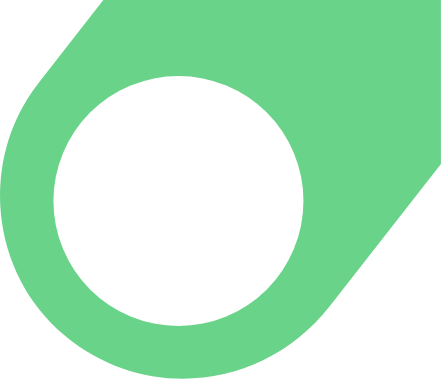
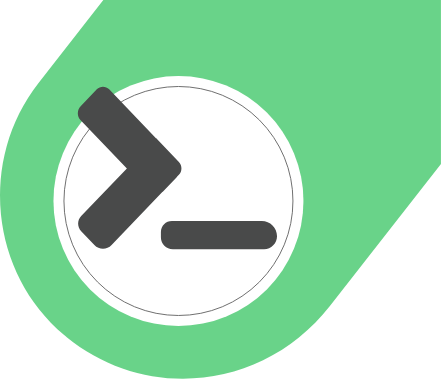
svg

diff --git a/index.html b/index.html
@@ -50,7 +50,25 @@
                     <a href="#hire-me" class="animated-button section-link">Hire me</a>
                 </div>
             </div>
-            <div class="potrait-image"></div>
+            <div class="potrait-image">
+                <svg xmlns="http://www.w3.org/2000/svg" width="440.952" height="378.68" viewBox="0 0 440.952 378.68">
+                    <g id="Group_31" data-name="Group 31" transform="translate(706.452 -579)">
+                      <g id="Group_7" data-name="Group 7">
+                        <path id="Subtraction_9" data-name="Subtraction 9" d="M182.924,582.68h-.012A182.325,182.325,0,0,1,122.477,572.4a186.333,186.333,0,0,1-55.731-31.2c-.913-.738-1.773-1.448-2.63-2.168a177.449,177.449,0,0,1-43.767-54.86,182.943,182.943,0,0,1-12.8-32.008A186.051,186.051,0,0,1,6.744,350,181.035,181.035,0,0,1,38.549,286.9L103.322,204h337.63V367.933L329.891,510.08a193.254,193.254,0,0,1-30.974,31.5A186.86,186.86,0,0,1,263.048,564.3a184.16,184.16,0,0,1-80.124,18.38Z" transform="translate(-706.452 375)" fill="#4dcb73" opacity="0.84"/>
+                        <circle id="Ellipse_3278" data-name="Ellipse 3278" cx="125" cy="125" r="125" transform="translate(-653 655)" fill="#fff"/>
+                        <g id="Ellipse_3295" data-name="Ellipse 3295" transform="translate(-643 665)" fill="#fff" stroke="#707070" stroke-width="1">
+                          <circle cx="115" cy="115" r="115" stroke="none"/>
+                          <circle cx="115" cy="115" r="114.5" fill="none"/>
+                        </g>
+                      </g>
+                      <g id="cursor_angle_blink" data-name="Group 30">
+                        <path id="Path_13" data-name="Path 13" d="M12.027-.155,31.076.24A11.037,11.037,0,0,1,41.79,10.954l2.241,108.073-33.044-.685a9.4,9.4,0,0,1-9.127-9.127L-.155,12.027A11.835,11.835,0,0,1,12.027-.155Z" transform="translate(-603.467 832.367) rotate(-135)" fill="#494a4a"/>
+                        <path id="Path_14" data-name="Path 14" d="M16.217.878,35.266.483A9.986,9.986,0,0,1,45.544,10.762L43.5,109.116a10.22,10.22,0,0,1-9.92,9.92l-23.325.484A8.507,8.507,0,0,1,1.5,110.764L3.519,13.576A13.081,13.081,0,0,1,16.217.878Z" transform="translate(-517.891 745.624) rotate(135)" fill="#494a4a"/>
+                      </g>
+                      <path id="blink" data-name="Rectangle 15" d="M15.281,0h0A12.893,12.893,0,0,1,28.174,12.893v91.279A11.938,11.938,0,0,1,16.236,116.11H10.983A10.983,10.983,0,0,1,0,105.127V15.281A15.281,15.281,0,0,1,15.281,0Z" transform="translate(-429.435 800.009) rotate(90)" fill="#494a4a"/>
+                    </g>
+                  </svg>
+            </div>
         </section>
 
         <!-- PROJECTS SECTION --->
@@ -110,7 +128,7 @@
                     
                     <!-- PLATFORMS -->
                     <div class="hire-me-platforms">
-                <h2>Consider hiring me on any of these platforms</h2>
+                <h3>Consider hiring me on any of these platforms</h3>
 
                         <div class="platform">
                             <!--
@@ -154,22 +172,26 @@
 
                     <!--CONTACT FORM-->
                         <div class="contact-form">
-                            <h2>Or shoot a message my way</h2>
+                            <h3>Or shoot a message my way</h3>
                             <form method="POST" data-netlify="true" id="my-form">
                                 <div class="form-control">
+                                    <div class="success-message">message</div>
+                                </div>
+                                <div class="form-control">
                                     <label for="name"><small>Name</small></label>
-                                    <input type="text" placeholder="Enter name">
+                                    <input type="text" name="name" required placeholder="Enter name">
                                 </div>
                                 <div class="form-control">
-                                    <label for="name"><small>Email</small></label>
-                                    <input type="text" placeholder="Enter email">
+                                    <label for="email"><small>Email</small></label>
+                                    <input type="text" required name="email" placeholder="Enter email">
                                 </div>
                                 <div class="form-control">
-                                    <textarea name="" id="" cols="30" rows="10"></textarea>
+                                    <textarea name="message" placeholder="Enter message" required id="" cols="30" rows="10"></textarea>
                                 </div>
                                 <div class="form-control">
                                     <input type="submit" value="Submit">
                                 </div>
+                                <div class="form-control" data-netlify-recaptcha="true"></div>
                             </form>
                         </div>
                     <!-- /CONTACT FORM -->

diff --git a/style.css b/style.css
@@ -1,10 +1,12 @@
 @import url('https://fonts.googleapis.com/css2?family=Heebo&display=swap');
 @import url('https://fonts.googleapis.com/css2?family=Roboto:wght@300&display=swap');
+@import url('https://fonts.googleapis.com/css2?family=Source+Sans+Pro&display=swap');
 * {
     margin: 0;
     padding: 0;
     /* font-family: 'Roboto', sans-serif; */
-    font-family: 'Segoe UI', Tahoma, Geneva, Verdana, sans-serif;
+    /* font-family: 'Segoe UI', Tahoma, Geneva, Verdana, sans-serif; */
+    font-family: 'Source Sans Pro', sans-serif;
 }
 
 body {
@@ -182,6 +184,10 @@ section {
 
 #hero-section > div {
     flex: 1;
+    
+}
+
+#hero-section > div:nth-of-type(1) {
     display: flex;
     flex-direction: column;
     justify-content: center;
@@ -201,11 +207,68 @@ section {
 }
 
 .potrait-image {
-    background-color: #fff;
-    background-image: url('./potrait-image-bg.png');
-    background-repeat: no-repeat;
-    background-position: top right;
-    background-size: contain;
+    position: relative;
+}
+.potrait-image svg{
+    position: absolute;
+    top: 0;
+    right: 0;
+    height: auto;
+    width: 100%;
+}
+
+#cursor_angle_blink {
+    animation: translate_x 1.5s ease infinite;
+    -webkit-animation: translate_x 3.5s ease infinite;
+}
+#blink {
+    animation: cursor_blink 1.5s ease infinite;
+    -webkit-animation: cursor_blink 1.5s ease infinite;
+}
+
+@keyframes translate_x {
+    0% {
+        transform: translateX(0px);
+        -webkit-transform: translateX(0px);
+        -moz-transform: translateX(0px);
+        -ms-transform: translateX(0px);
+        -o-transform: translateX(0px);
+    }
+    25% {
+        transform: translateX(2px);
+        -webkit-transform: translateX(2px);
+        -moz-transform: translateX(2px);
+        -ms-transform: translateX(2px);
+        -o-transform: translateX(2px);
+}
+    50% {
+        transform: translateX(5px);
+        -webkit-transform: translateX(5px);
+        -moz-transform: translateX(5px);
+        -ms-transform: translateX(5px);
+        -o-transform: translateX(5px);
+}
+    75% {
+        transform: translateX(4px);
+        -webkit-transform: translateX(4px);
+        -moz-transform: translateX(4px);
+        -ms-transform: translateX(4px);
+        -o-transform: translateX(4px);
+}
+    100% {
+        transform: translateX(0px);
+        -webkit-transform: translateX(0px);
+        -moz-transform: translateX(0px);
+        -ms-transform: translateX(0px);
+        -o-transform: translateX(0px);
+}
+}
+
+@keyframes cursor_blink {
+    0% { opacity: 0; }
+    10% { opacity: 0.5; }
+    15% { opacity: 0.75; }
+    100% { opacity: 1; }
 }
 
 .hero-section-title {
@@ -373,6 +436,11 @@ section {
 
 .form-control input {
     width: 100%;
+    transition: all 0.4s ease;
+    -webkit-transition: all 0.4s ease;
+    -moz-transition: all 0.4s ease;
+    -ms-transition: all 0.4s ease;
+    -o-transition: all 0.4s ease;
 }
 
 form input[type=text],
@@ -390,8 +458,20 @@ form input[type=submit] {
     font-size: 18px;
     border: none;
     padding: 8px;
+    cursor: pointer;
+    color: #fff;
 }
 
+form input[type=submit]:hover {
+    background: #41a860;
+}
+
+.success-message {
+    background: #4DCB73;
+    padding: 5px;
+    color: #fff;
+    display: none;
+}
 footer {
     padding: 10px;
     background: #7fe99f;
@@ -443,8 +523,8 @@ footer {
     }
 
     nav .wrapper {
-        height: 50%;
-        margin-top: 50px;
+        height: 30%;
+        margin-top: 80px;
     }
 
     .navigation-links {
@@ -455,10 +535,18 @@ footer {
     #hero-section {
         flex-direction: column-reverse;
     }
+    .potrait-image svg{
+        position: absolute;
+        top: 0;
+        right: 0;
+        height: 100%;
+        width: auto;
+    }
 
     .hero-section-title {
         width: 100%;
-        margin: 0px 15px;
+        margin: 0;
+        padding: 0px 15px;
     }
     .projects {
         grid-template-columns: repeat(2,1fr);

diff --git a/main.js b/main.js
@@ -31,7 +31,6 @@ $(document).ready(function(){
         } 
     }
 
-    console.log($(document).innerWidth())
     // smooth scroll behaviour
     $('a.section-link').on('click', function(event) {
         if(this.hash !== '') {
@@ -56,6 +55,12 @@ $("#my-form").submit(function(e) {
   
     var $form = $(this);
     $.post($form.attr("action"), $form.serialize()).then(function() {
-      alert("Thank you for your submission. I'll be in touch ASAP!");
+        $('.success-message').css('display','block')
+        $('.success-message').text('Message sent, I\'ll be in touch ASAP')
+        $('#my-form')[0].reset()
     });
 });
+
+setTimeout(() => {
+    $('.success-message').css('display','none')
+}, 2000);
